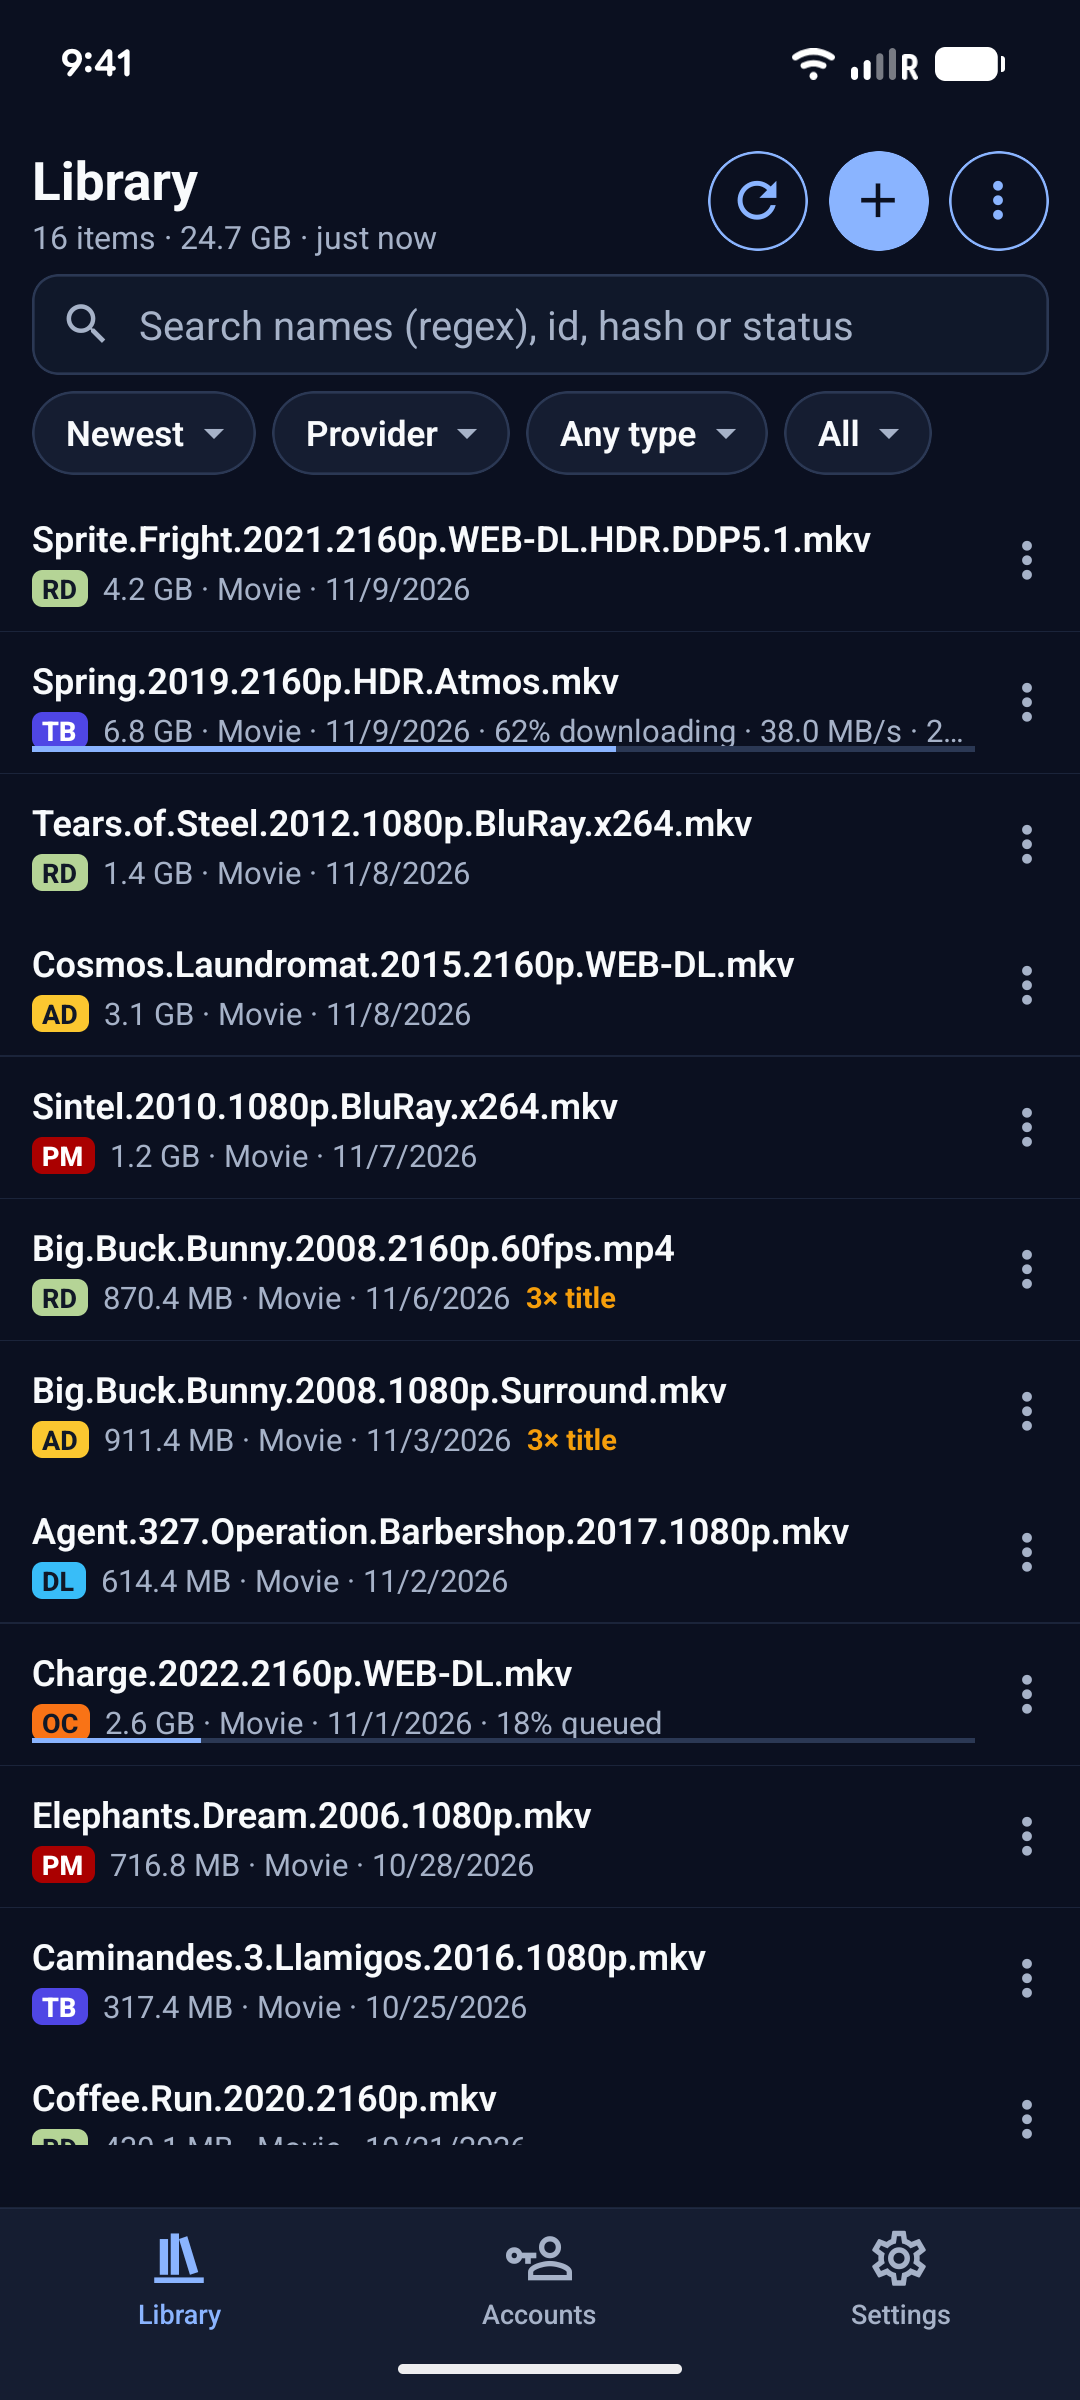
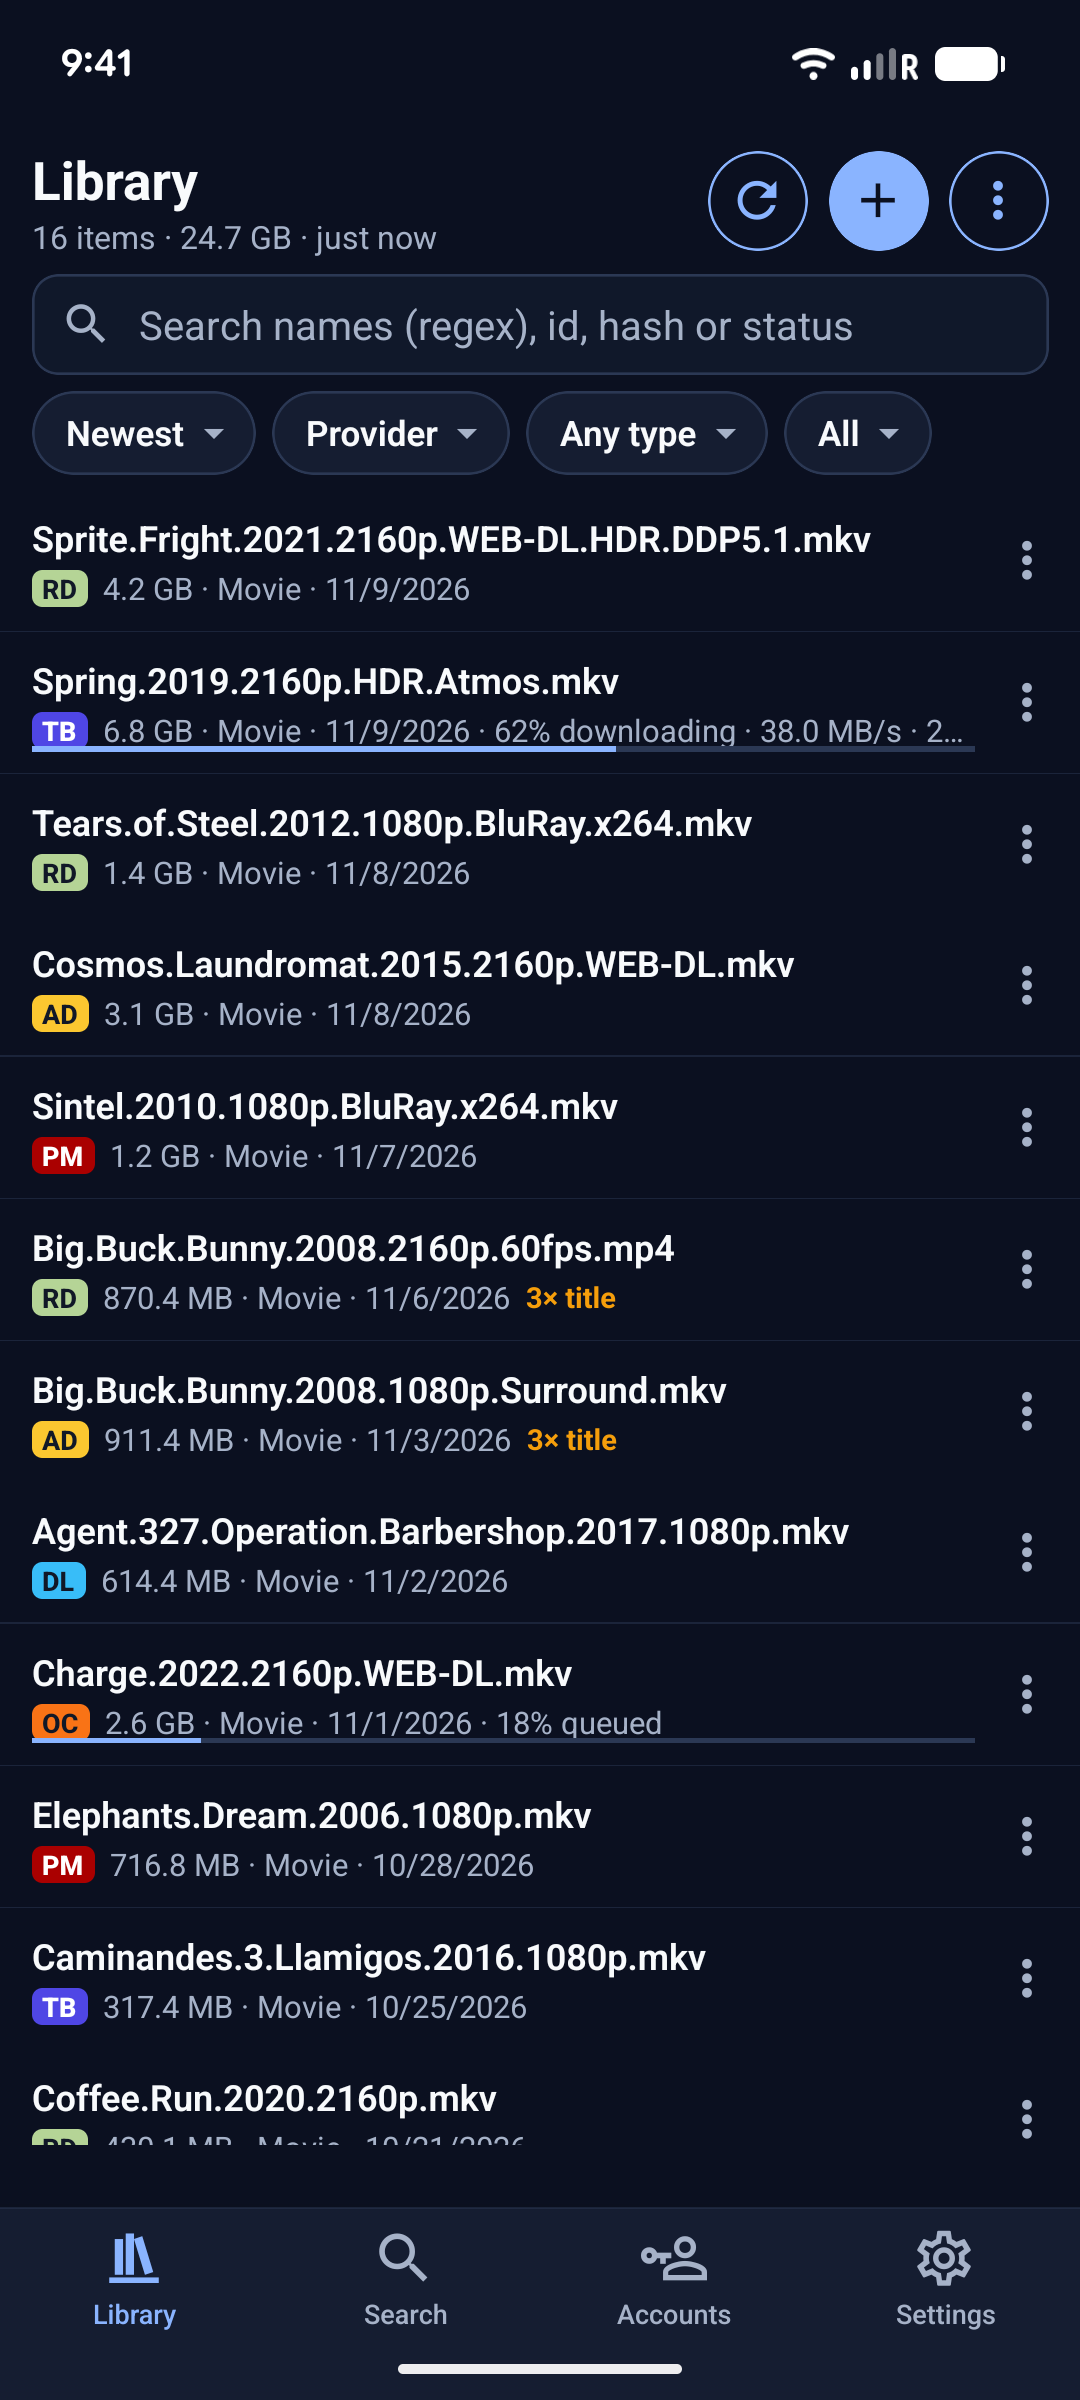
docs: Search in the README with phone and tablet screenshots on Android and iOS

diff --git a/README.md b/README.md
@@ -111,6 +111,15 @@ picker; Infuse, VLC, VidHub, Outplayer, SenPlayer or Aether on iOS), the same
 list DMM web offers; other files go to the operating system. Hash lists open on DMM web's `/hashlist` page, carried
 in the link itself.
 
+## Search
+
+DMM web's quick search on its own tab: the six best movie and show matches,
+then up to three anime. A row opens that title's page on DMM in the phone's
+browser, already signed in with the app's logins: the app hands them to DMM
+behind a one-time code that lives two minutes, carried in the link's `#`
+fragment, which never reaches a server. A browser that is already signed in to
+DMM keeps its own login. Pasting an IMDb id opens that title directly.
+
 ## Remembered across devices
 
 Always on. The app keeps your logins and settings in DMM's "remember my logins
@@ -133,15 +142,16 @@ middle. On a TV everything is reached with the remote: the focused control is
 outlined, Select opens a text field's keyboard (Android TV otherwise keeps the
 remote inside a focused field), and the dark theme is always on. Apple TV draws
 the Android TV layout at twice the size, so both look the same. What a TV has
-no way to do is left out: sharing, file pickers and opening links in a browser.
+no way to do is left out: sharing, file pickers, opening links in a browser,
+and so the Search tab.
 On Apple TV videos go to a player app chosen in Settings (Infuse, VLC and the
 rest of DMM web's list).
 
 ## Screenshots
 
 Release builds, full resolution (click one to open it). The libraries show Blender
-open movies (CC BY) from a screenshot fixture of the real screens; the two sign-in
-screens are the app as it ships.
+open movies (CC BY) from a screenshot fixture of the real screens; search results
+are DMM's live search; the two sign-in screens are the app as it ships.
 
 ### Phones
 
@@ -149,9 +159,11 @@ Pixel 6 (Android 16) and iPhone 17 Pro simulator (iOS 26.5).
 
 <p>
 <a href="docs/screenshots/android-phone-library.png"><img src="docs/screenshots/android-phone-library.png" width="200" alt="Library on an Android phone: one dense list across six providers with a download in progress"></a>
+<a href="docs/screenshots/android-phone-search.png"><img src="docs/screenshots/android-phone-search.png" width="200" alt="Search on an Android phone: movie and show matches with posters, then anime"></a>
 <a href="docs/screenshots/android-phone-detail.png"><img src="docs/screenshots/android-phone-detail.png" width="200" alt="Tears of Steel detail with its files and subtitles"></a>
 <a href="docs/screenshots/android-phone-menu.png"><img src="docs/screenshots/android-phone-menu.png" width="200" alt="A row's menu: details, select, share, delete"></a>
 <a href="docs/screenshots/iphone-library.png"><img src="docs/screenshots/iphone-library.png" width="200" alt="Library on an iPhone"></a>
+<a href="docs/screenshots/iphone-search.png"><img src="docs/screenshots/iphone-search.png" width="200" alt="Search on an iPhone"></a>
 <a href="docs/screenshots/iphone-sign-in.png"><img src="docs/screenshots/iphone-sign-in.png" width="200" alt="Sign-in on an iPhone, one card per provider"></a>
 </p>
 
@@ -162,13 +174,16 @@ The tabs become a rail on the left.
 
 <p>
 <a href="docs/screenshots/android-tablet-library.png"><img src="docs/screenshots/android-tablet-library.png" width="560" alt="Library on an Android tablet in landscape with the tab rail"></a>
+<a href="docs/screenshots/android-tablet-search.png"><img src="docs/screenshots/android-tablet-search.png" width="560" alt="Search on an Android tablet"></a>
 <a href="docs/screenshots/ipad-library.png"><img src="docs/screenshots/ipad-library.png" width="300" alt="Library on an iPad"></a>
+<a href="docs/screenshots/ipad-search.png"><img src="docs/screenshots/ipad-search.png" width="300" alt="Search on an iPad"></a>
 </p>
 
 ### TVs
 
 Fire TV Cube (Fire OS 7, 1080p) and Apple TV 4K simulator (tvOS 26.5, 4K). The
 focused control is outlined; a TV signs in by scanning a QR code with a phone.
+TVs have no Search tab, since a TV has no browser to open results in.
 
 <p>
 <a href="docs/screenshots/firetv-sign-in.png"><img src="docs/screenshots/firetv-sign-in.png" width="440" alt="TV sign-in: a QR code and a short code to approve on debridmediamanager.com/tv"></a>
